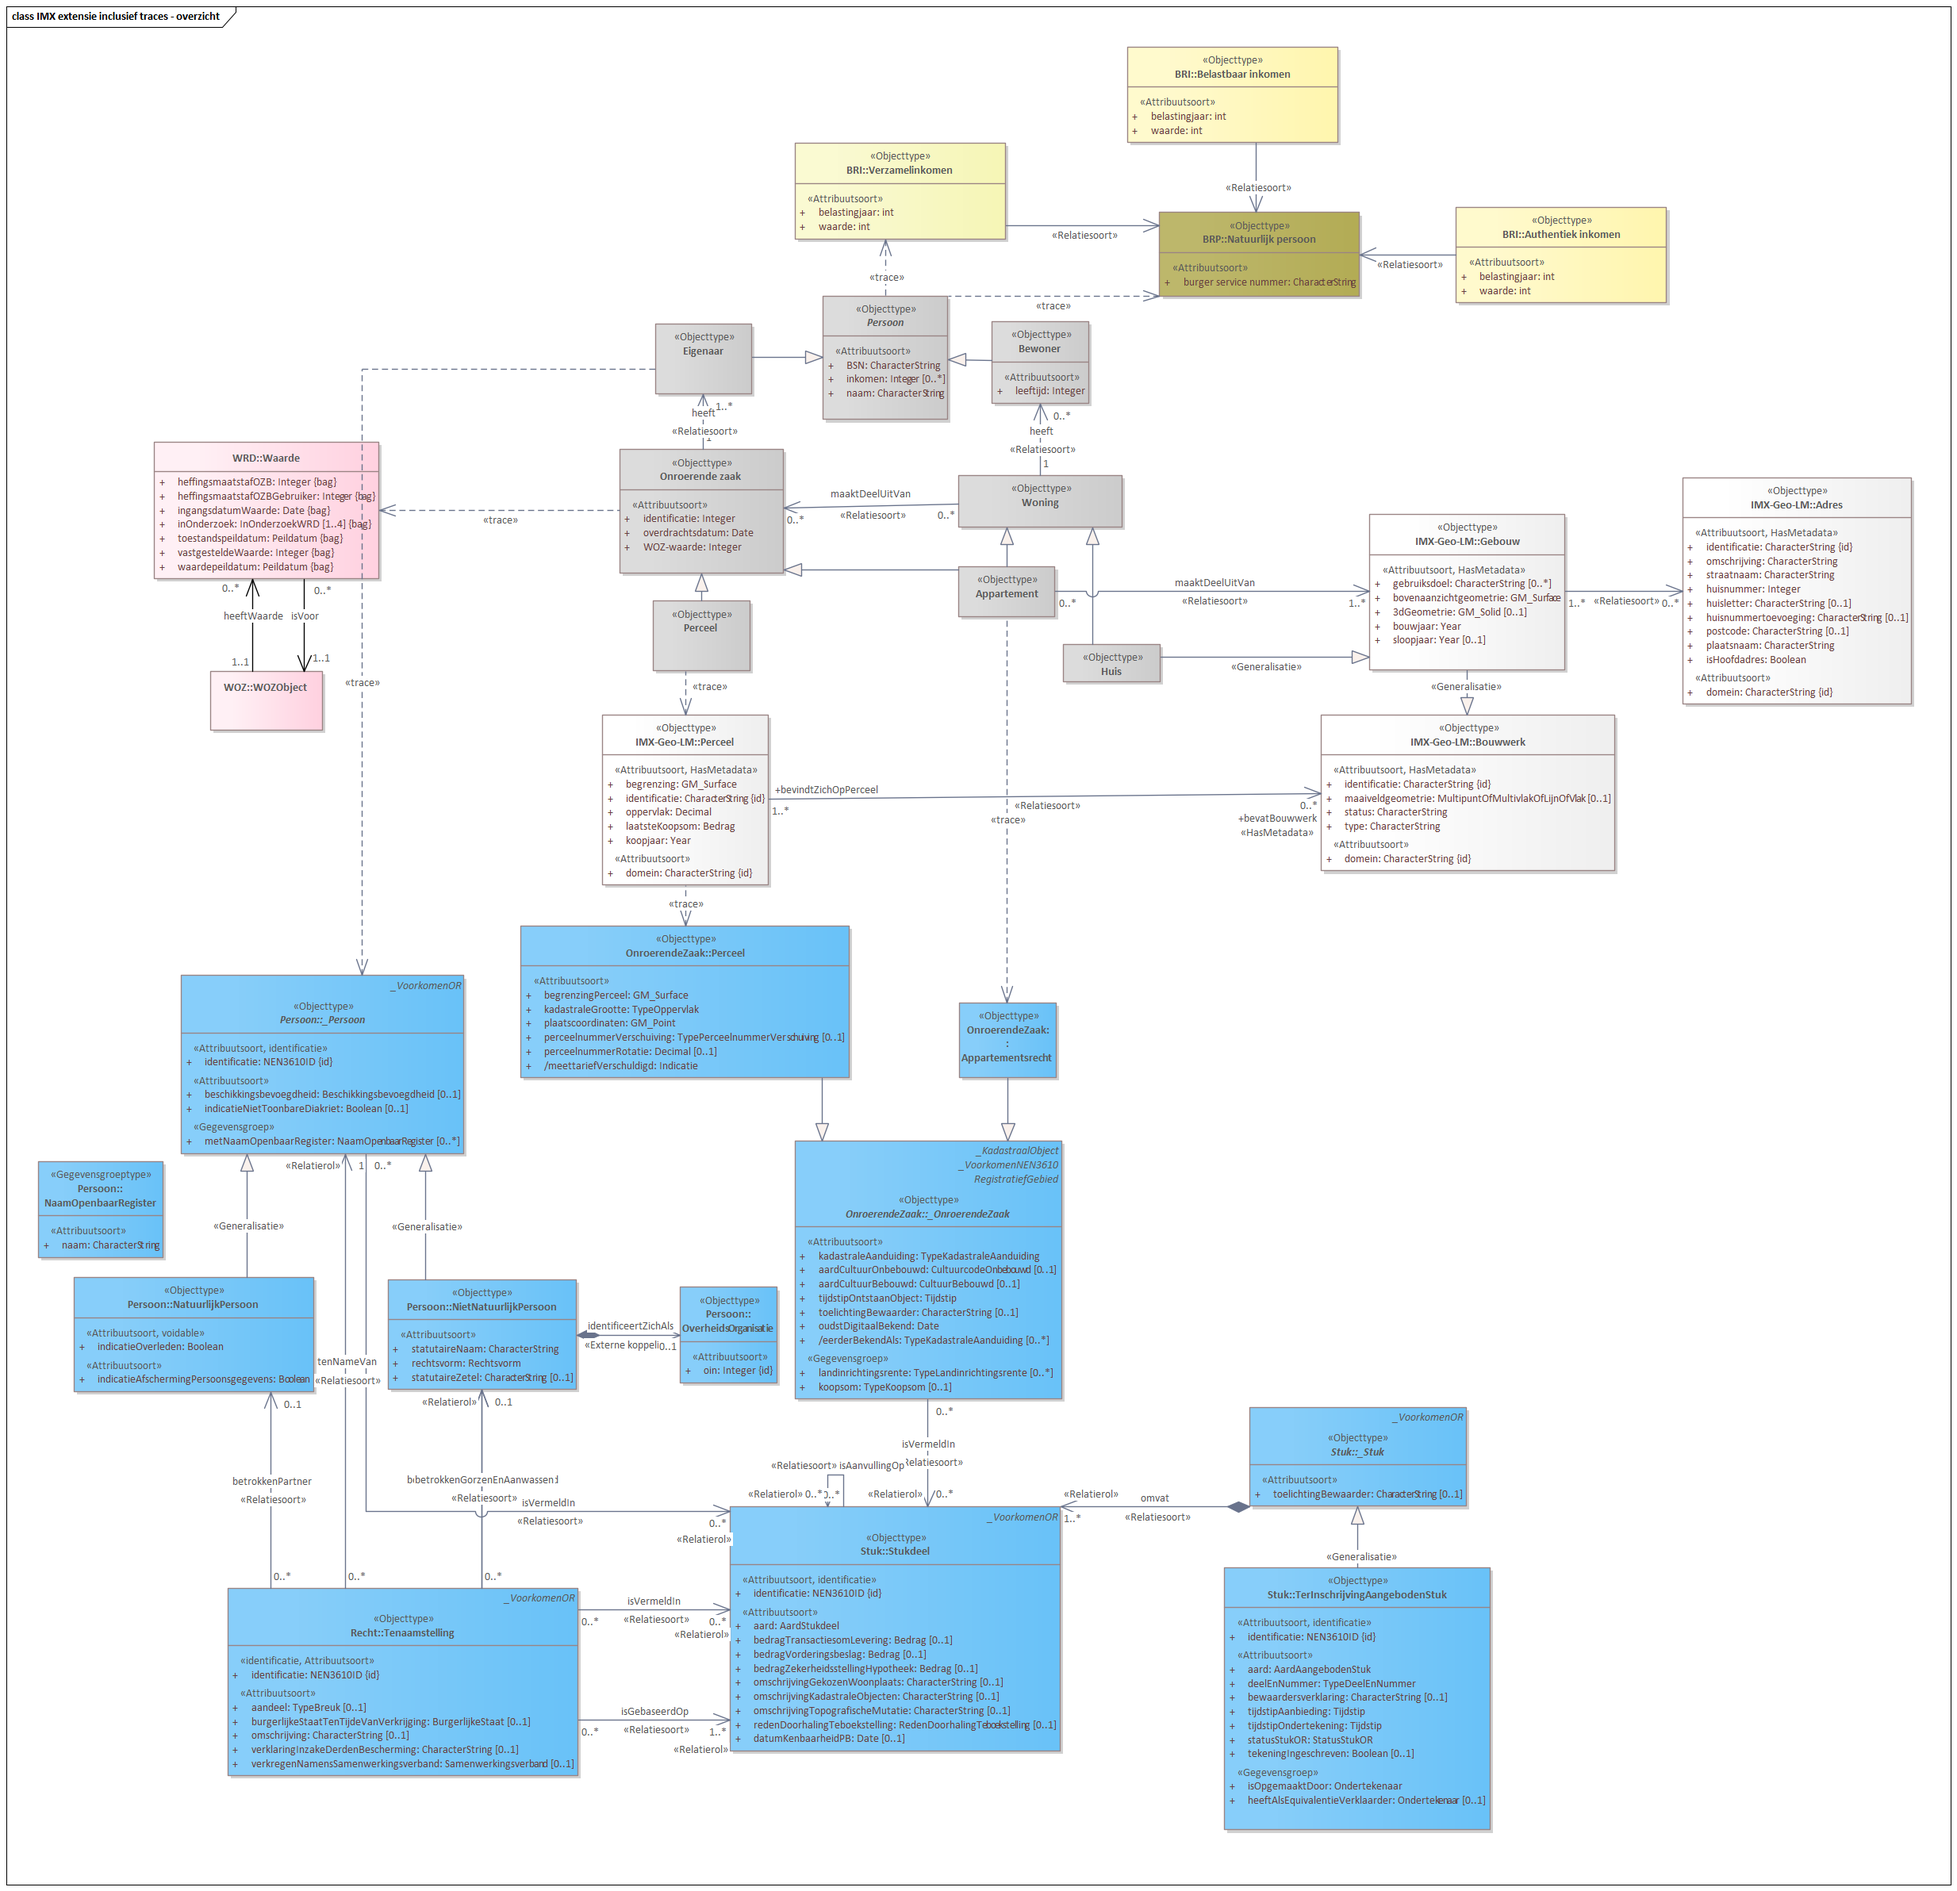
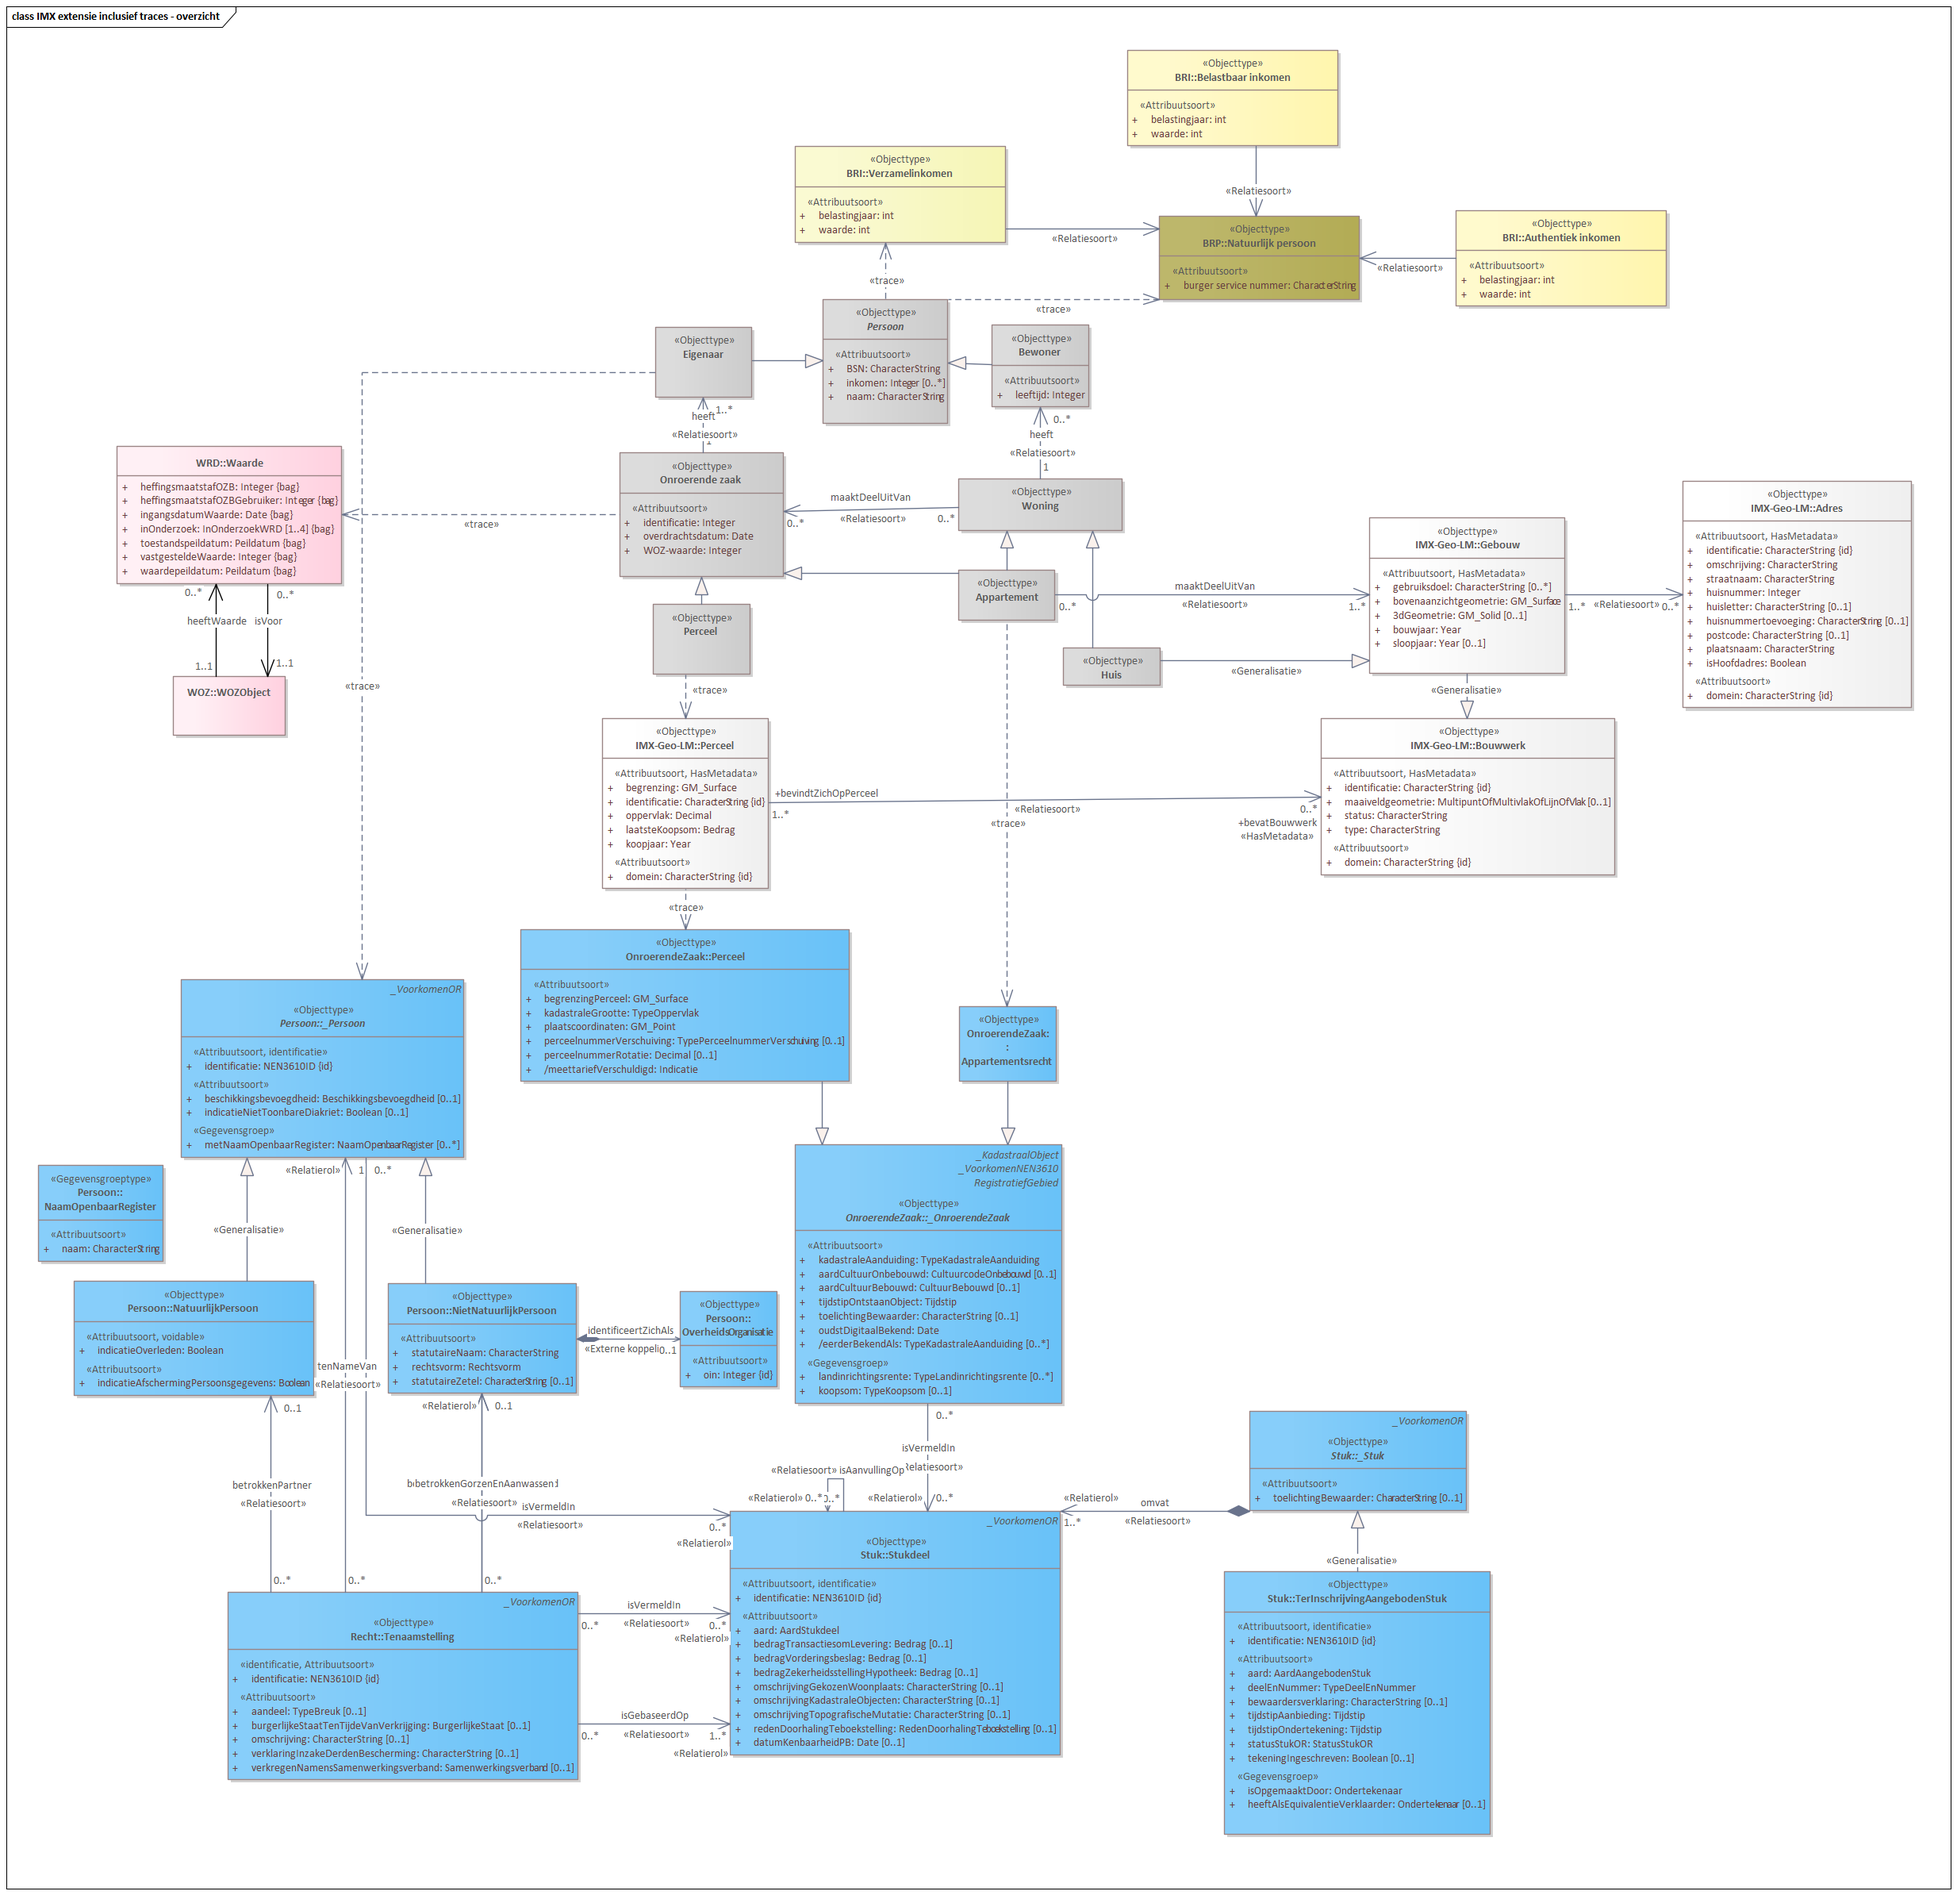
MIMCM-IMXDigilab-1.0-0-20231128-20240209-080343

diff --git a/data/imx-digilab-cat.respec.html b/data/imx-digilab-cat.respec.html
@@ -1,7 +1,7 @@
 
 <!DOCTYPE HTML><section id="cat" class="normative">
    <h2>Gegevensdefinitie</h2>
-   <!--MIMCM-IMXDigilab-1.0-0-20231128-20240209-080247 imvertor 2.0.0--><a class="anchor" id="global_package_InkomensafhankelijkeHuursverhoging"></a><section id="global_package_InkomensafhankelijkeHuursverhoging">
+   <!--MIMCM-IMXDigilab-1.0-0-20231128-20240209-080343 imvertor 2.0.0--><a class="anchor" id="global_package_InkomensafhankelijkeHuursverhoging"></a><section id="global_package_InkomensafhankelijkeHuursverhoging">
       <h3>Domein   Inkomensafhankelijke huursverhoging</h3>
       <section id="EAID_E1D40597_044B_4576_993B_D118A88B1844">
          <h4>   Inkomensafhankelijke huursverhoging - overzicht</h4>
@@ -1472,7 +1472,7 @@
       <h3>Domein   IMX extensie</h3>
       <section id="EAID_354A308E_EC56_463c_872F_C654818040C5">
          <h4>   IMX extensie inclusief traces - overzicht</h4>
-         <div class="imageinfo overview"><img src="data/Images/EAID_354A308E_EC56_463c_872F_C654818040C5.png" usemap="#imagemap-EAID_354A308E_EC56_463c_872F_C654818040C5" alt="Diagram &#xA;                        &#xA;                     "><map name="imagemap-EAID_354A308E_EC56_463c_872F_C654818040C5"><area shape="rect" alt="Persoon" coords="1037,373,1195,529" href="#graph_EAID_77C05A32_1FCB_4596_AA1A_6EB78A5305B3"><area shape="rect" alt="Eigenaar" coords="826,408,948,497" href="#graph_EAID_7CAA0575_2AB2_460e_BE89_667DFEAF95C2"><area shape="rect" alt="Bewoner" coords="1250,405,1373,509" href="#graph_EAID_08F9B62A_8946_433a_AF6F_79D96EBBE327"><area shape="rect" alt="Huis" coords="1340,812,1463,860" href="#graph_EAID_6C86362C_775A_4448_BA53_2CE8EF9E6DDA"><area shape="rect" alt="Appartement" coords="1208,714,1330,778" href="#graph_EAID_4783E668_1C36_4cdb_AF6B_3682E5523703"><area shape="rect" alt="Perceel" coords="823,757,946,846" href="#graph_EAID_8D13CD5B_7065_44aa_BCB3_5A3DCAE7ADD8"><area shape="rect" alt="Woning" coords="1208,599,1415,665" href="#graph_EAID_64536B56_C796_4f61_A192_B5CFD13E24D7"><area shape="rect" alt="Onroerende zaak" coords="781,566,988,723" href="#graph_EAID_F031E7AA_8B04_45e3_8A65_C4D8FDBAB956"></map><p><b>IMX extensie inclusief traces - overzicht</b></p>
+         <div class="imageinfo overview"><img src="data/Images/EAID_354A308E_EC56_463c_872F_C654818040C5.png" usemap="#imagemap-EAID_354A308E_EC56_463c_872F_C654818040C5" alt="Diagram &#xA;                        &#xA;                     "><map name="imagemap-EAID_354A308E_EC56_463c_872F_C654818040C5"><area shape="rect" alt="Persoon" coords="1037,377,1195,534" href="#graph_EAID_77C05A32_1FCB_4596_AA1A_6EB78A5305B3"><area shape="rect" alt="Eigenaar" coords="826,412,948,501" href="#graph_EAID_7CAA0575_2AB2_460e_BE89_667DFEAF95C2"><area shape="rect" alt="Bewoner" coords="1250,409,1373,513" href="#graph_EAID_08F9B62A_8946_433a_AF6F_79D96EBBE327"><area shape="rect" alt="Huis" coords="1340,816,1463,864" href="#graph_EAID_6C86362C_775A_4448_BA53_2CE8EF9E6DDA"><area shape="rect" alt="Appartement" coords="1208,718,1330,782" href="#graph_EAID_4783E668_1C36_4cdb_AF6B_3682E5523703"><area shape="rect" alt="Perceel" coords="823,761,946,850" href="#graph_EAID_8D13CD5B_7065_44aa_BCB3_5A3DCAE7ADD8"><area shape="rect" alt="Woning" coords="1208,603,1415,669" href="#graph_EAID_64536B56_C796_4f61_A192_B5CFD13E24D7"><area shape="rect" alt="Onroerende zaak" coords="781,570,988,727" href="#graph_EAID_F031E7AA_8B04_45e3_8A65_C4D8FDBAB956"></map><p><b>IMX extensie inclusief traces - overzicht</b></p>
          </div>
       </section>
       <section id="EAID_A96D0915_2F6C_4f2f_8F8B_29409FAF0E9C">
@@ -2366,7 +2366,7 @@
 </section>
 <section id="lis" class="normative">
    <h2>Inhoud van waardenlijsten</h2>
-   <!--MIMCM-IMXDigilab-1.0-0-20231128-20240209-080247 imvertor 2.0.0-->
+   <!--MIMCM-IMXDigilab-1.0-0-20231128-20240209-080343 imvertor 2.0.0-->
    <section id="">
       <h3>Enumeratie inhoud   </h3><a class="anchor" id="graph_EAID_E3A2BC22_5E84_4d1e_9AC8_98B9FA886538"></a><a class="anchor" id="detail_class_InkomensafhankelijkeHuursverhoging_Inkomenscategorie"></a><section id="detail_class_InkomensafhankelijkeHuursverhoging_Inkomenscategorie">
          <h4>Enumeratie details  Inkomenscategorie</h4>
